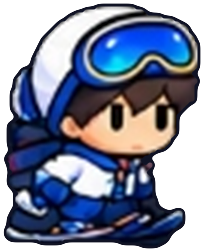
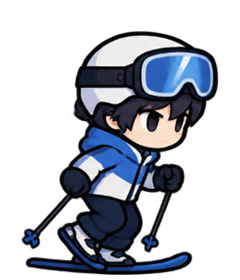
hd67: Replace Skier with full 8-frame run + 4-frame jump/fall/slide/idle/hurt/die sprites and portrait

diff --git a/index.html b/index.html
@@ -16,7 +16,7 @@
   <link rel="preload" as="image" href="assets/studio/yagun_text.png?v=20261121hd59" />
   <link rel="preload" as="image" href="assets/logo.png" />
   <link rel="preload" as="font" type="font/ttf" href="assets/fonts/Paperlogy-9Black.ttf" crossorigin />
-  <link rel="stylesheet" href="style.css?v=20261121hd66" />
+  <link rel="stylesheet" href="style.css?v=20261121hd67" />
 </head>
 <body>
   <div id="mobile-app">
@@ -1009,14 +1009,14 @@
   <!-- Official Firebase Auth SDK (Google Real OAuth) -->
   <script src="https://www.gstatic.com/firebasejs/10.14.1/firebase-app-compat.js"></script>
   <script src="https://www.gstatic.com/firebasejs/10.14.1/firebase-auth-compat.js"></script>
-  <script src="js/data.js?v=20261121hd66"></script>
-  <script src="js/ui-icons.js?v=20261121hd66"></script>
-  <script src="js/weather-live.js?v=20261121hd66"></script>
-  <script src="js/audio.js?v=20261121hd66"></script>
-  <script src="js/studio-intro.js?v=20261121hd66"></script>
-  <script src="js/online.js?v=20261121hd66"></script>
-  <script src="js/renderer.js?v=20261121hd66"></script>
-  <script src="js/game.js?v=20261121hd66"></script>
+  <script src="js/data.js?v=20261121hd67"></script>
+  <script src="js/ui-icons.js?v=20261121hd67"></script>
+  <script src="js/weather-live.js?v=20261121hd67"></script>
+  <script src="js/audio.js?v=20261121hd67"></script>
+  <script src="js/studio-intro.js?v=20261121hd67"></script>
+  <script src="js/online.js?v=20261121hd67"></script>
+  <script src="js/renderer.js?v=20261121hd67"></script>
+  <script src="js/game.js?v=20261121hd67"></script>
   <script>
     if ('serviceWorker' in navigator && (location.protocol === 'https:' || location.hostname === 'localhost')) {
       window.addEventListener('load', () => {

diff --git a/js/renderer.js b/js/renderer.js
@@ -31,7 +31,7 @@ window.RunRenderer = (function () {
     { id: 'yellow', frames: 3, runFrames: 8 },
     { id: 'blue', frames: 3, runFrames: 8 },
     { id: 'hanbok', frames: 3, runFrames: 8 },
-    { id: 'skier', frames: 2 },
+    { id: 'skier', frames: 4, runFrames: 8, ver: '20261121hd67' },
     { id: 'santa', frames: 2 },
     { id: 'catgirl', frames: 4, runFrames: 8 },
     { id: 'hades', frames: 3, runFrames: 4 }
@@ -84,16 +84,17 @@ window.RunRenderer = (function () {
     }
   });
   CHAR_SHEET_SKINS.forEach((sk) => {
+    const skVer = sk.ver || SPRITE_VER;
     CHAR_ANIM_STATES.forEach((st) => {
       const fCount = (st === 'run' && sk.runFrames)
         ? sk.runFrames
         : ((st === 'idle' && sk.idleFrames) ? sk.idleFrames : sk.frames);
       for (let f = 0; f < fCount; f++) {
         const key = `${sk.id}_${st}_${f}`;
-        SPRITE_URL_MAP[key] = `assets/chars/${key}.png?v=${SPRITE_VER}`;
+        SPRITE_URL_MAP[key] = `assets/chars/${key}.png?v=${skVer}`;
       }
     });
-    SPRITE_URL_MAP[`port_${sk.id}`] = `assets/chars/port_${sk.id}.png?v=${SPRITE_VER}`;
+    SPRITE_URL_MAP[`port_${sk.id}`] = `assets/chars/port_${sk.id}.png?v=${skVer}`;
   });
   CHAR_VFX_SPRITES.forEach((key) => { SPRITE_URL_MAP[key] = `assets/chars/${key}.png?v=${SPRITE_VER}`; });
   DESIGN_SPRITES.forEach((key) => { SPRITE_URL_MAP[key] = `assets/design/${key}.png?v=${SPRITE_VER}`; });

diff --git a/js/game.js b/js/game.js
@@ -4216,7 +4216,8 @@
     el.homeHeroStage.className = `bs-home-stage ${tierCls}${unlocked ? '' : ' locked'}`;
     lastHomeHeroSrc = '';
     const homePose = (skin && skin.customIdleFrames) ? 'idle' : 'run';
-    el.homeHeroImg.src = `assets/chars/${anim.skin}_${homePose}_0.png?v=${ASSET_VER}`;
+    const charSprVer = anim.skin === 'skier' ? '20261121hd67' : ASSET_VER;
+    el.homeHeroImg.src = `assets/chars/${anim.skin}_${homePose}_0.png?v=${charSprVer}`;
     el.homeHeroImg.alt = skin ? `${ch.name} (${skin.name})` : ch.name;
     el.homeHeroImg.style.filter = getSkinFilter(skin);
     el.homeHeroImg.style.setProperty('--skin-glow', skin ? skin.glow : '');
@@ -4299,7 +4300,8 @@
     const frameCnt = useIdle ? skin.customIdleFrames : anim.frames;
     const fps = useIdle ? 6.5 : (frameCnt >= 6 ? 13 : (frameCnt >= 3 ? 9.5 : 7.5));
     const frame = Math.floor(t * fps) % frameCnt;
-    const src = `assets/chars/${anim.skin}_${useIdle ? 'idle' : 'run'}_${frame}.png?v=${ASSET_VER}`;
+    const charSprVer = anim.skin === 'skier' ? '20261121hd67' : ASSET_VER;
+    const src = `assets/chars/${anim.skin}_${useIdle ? 'idle' : 'run'}_${frame}.png?v=${charSprVer}`;
     const readySrc = getPreloadedHomeHeroSrc(src);
     if (readySrc && readySrc !== lastHomeHeroSrc) {
       lastHomeHeroSrc = readySrc;

diff --git a/js/data.js b/js/data.js
@@ -155,8 +155,9 @@ window.RUN_DATA = (function () {
       icon: '🧊',
       spriteKey: 'skier_idle_0',
       animSkin: 'skier',
-      animFrames: 2,
-      avatar: 'assets/chars/port_skier.png?v=20261121hd9',
+      animFrames: 4,
+      runFrames: 8,
+      avatar: 'assets/chars/port_skier.png?v=20261121hd67',
       auraType: 'skier',
       price: 950,
       baseHp: 5,
@@ -168,7 +169,7 @@ window.RUN_DATA = (function () {
       passiveDesc: '빙판 미끄러짐 완전 제어 + 빙판 구간 이동/점수 +20%, 음료 아이템 점수·피버 대폭 증가!',
       desc: '영하 15도에도 아아 한 잔! 겨울 빙판길에서 오히려 최고의 기동력을 발휘합니다.',
       tag: '빙판 제어 & 가속 · 피버 특화',
-      colors: { top: '#2b70d4', outer: '#1d54a8', pants: '#232c3d', shoes: '#d9e3f0', hat: null, coffeeCup: true }
+      colors: { top: '#2b70d4', outer: '#1d54a8', pants: '#232c3d', shoes: '#d9e3f0', hat: null }
     },
     {
       id: 'fashionista',

diff --git a/sw.js b/sw.js
@@ -1,4 +1,4 @@
-const CACHE_NAME = 'k-weather-survival-v20261121hd66';
+const CACHE_NAME = 'k-weather-survival-v20261121hd67';
 const ASSET_CACHE_NAME = 'k-weather-survival-assets-v1';
 const CORE_ASSETS = [
   './',
